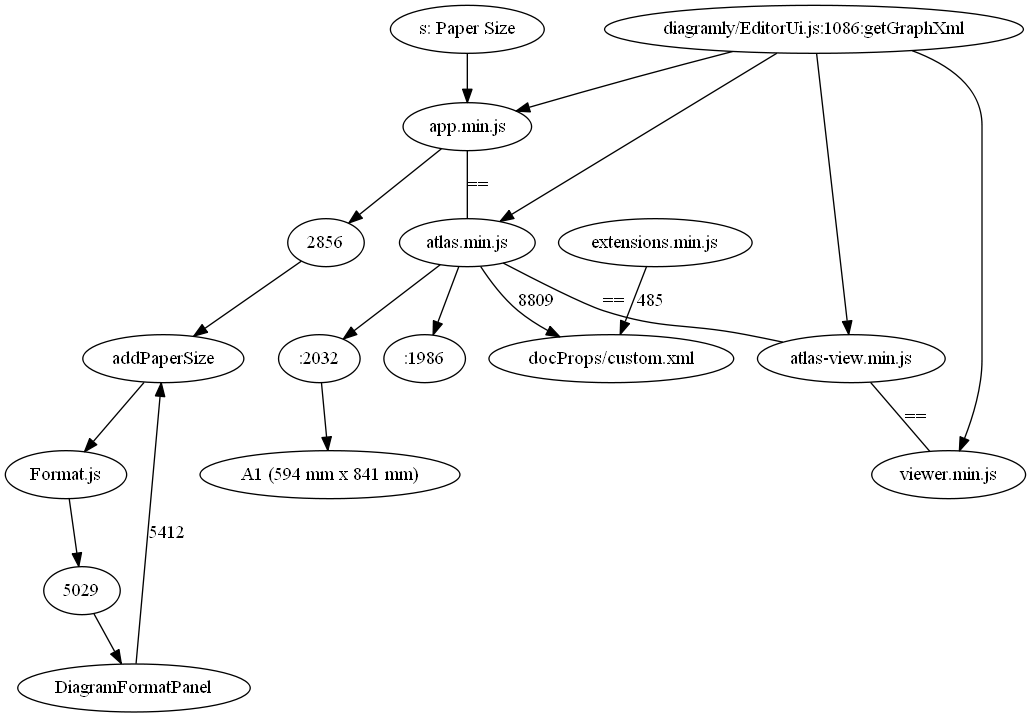
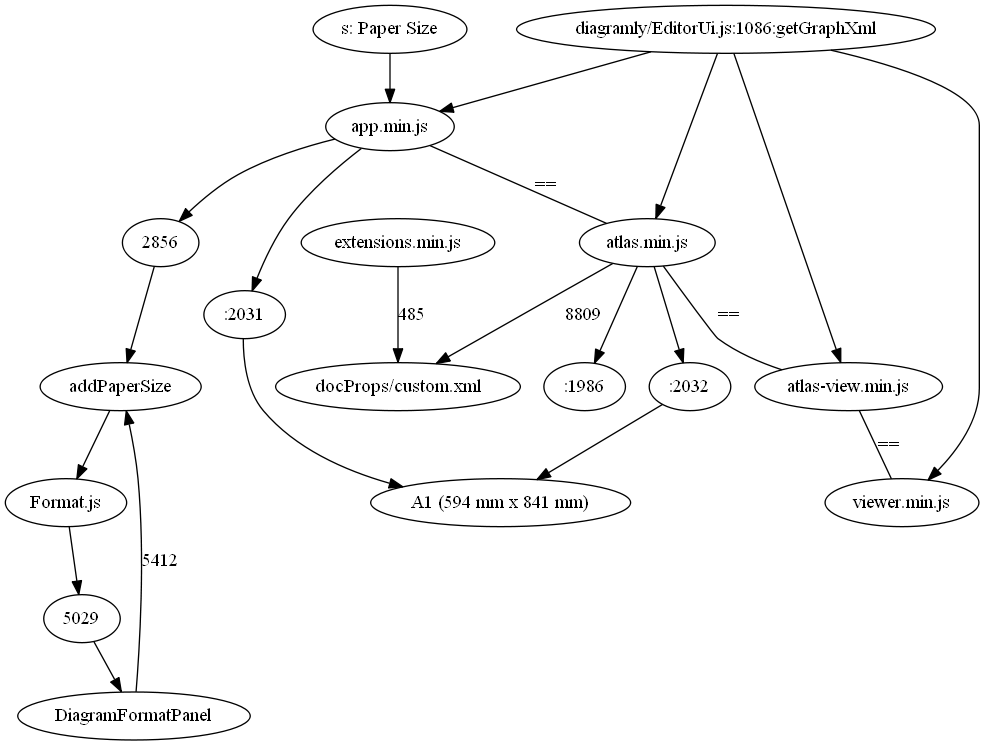
atlas-viewer.min.js 2032

diff --git a/src/main/webapp/js/atlas-viewer.min.js b/src/main/webapp/js/atlas-viewer.min.js
@@ -2029,8 +2029,20 @@ g.setAttribute("size","7");g.style.textAlign="right";f.appendChild(g);mxUtils.wr
 a.appendChild(u);a.appendChild(f);var y=e,t=function(a,d){var c=r[q.value];null!=c.format?(g.value=c.format.width/100,k.value=c.format.height/100,f.style.display="none",u.style.display=""):(u.style.display="none",f.style.display="");isNaN(parseFloat(g.value))&&(g.value=e.width/100);isNaN(parseFloat(k.value))&&(k.value=e.height/100);c=new mxRectangle(0,0,Math.floor(100*parseFloat(g.value)),Math.floor(100*parseFloat(k.value)));"custom"!=q.value&&p.checked&&(c=new mxRectangle(0,0,c.height,c.width));
 d&&A||c.width==y.width&&c.height==y.height||(y=c,null!=b&&b(y))};mxEvent.addListener(c,"click",function(a){m.checked=!0;t(a);mxEvent.consume(a)});mxEvent.addListener(d,"click",function(a){p.checked=!0;t(a);mxEvent.consume(a)});mxEvent.addListener(g,"blur",t);mxEvent.addListener(g,"click",t);mxEvent.addListener(k,"blur",t);mxEvent.addListener(k,"click",t);mxEvent.addListener(p,"change",t);mxEvent.addListener(m,"change",t);mxEvent.addListener(q,"change",function(a){A="custom"==q.value;t(a,!0)});t();
 return{set:function(a){e=a;h(null,null,!0)},get:function(){return y},widthInput:g,heightInput:k}};
-PageSetupDialog.getFormats=function(){return[{key:"letter",title:'US-Letter (8,5" x 11")',format:mxConstants.PAGE_FORMAT_LETTER_PORTRAIT},{key:"legal",title:'US-Legal (8,5" x 14")',format:new mxRectangle(0,0,850,1400)},{key:"tabloid",title:"US-Tabloid (279 mm x 432 mm)",format:new mxRectangle(0,0,1100,1700)},{key:"a0",title:"A0 (841 mm x 1189 mm)",format:new mxRectangle(0,0,3300,4681)},{key:"a1",title:"A1 (594 mm x 841 mm)",format:new mxRectangle(0,0,2339,3300)},{key:"a2",title:"A2 (420 mm x 594 mm)",
-format:new mxRectangle(0,0,1654,2336)},{key:"a3",title:"A3 (297 mm x 420 mm)",format:new mxRectangle(0,0,1169,1654)},{key:"a4",title:"A4 (210 mm x 297 mm)",format:mxConstants.PAGE_FORMAT_A4_PORTRAIT},{key:"a5",title:"A5 (148 mm x 210 mm)",format:new mxRectangle(0,0,583,827)},{key:"a6",title:"A6 (105 mm x 148 mm)",format:new mxRectangle(0,0,413,583)},{key:"a7",title:"A7 (74 mm x 105 mm)",format:new mxRectangle(0,0,291,413)},{key:"custom",title:mxResources.get("custom"),format:null}]};
+PageSetupDialog.getFormats=function(){return[
+{key:"7inch",title:'ESL 7 inch (5" x 7")',format:new mxRectangle(0,0,500,700)},
+{key:"letter",title:'US-Letter (8,5" x 11")',format:mxConstants.PAGE_FORMAT_LETTER_PORTRAIT},
+{key:"legal",title:'US-Legal (8,5" x 14")',format:new mxRectangle(0,0,850,1400)},
+{key:"tabloid",title:"US-Tabloid (279 mm x 432 mm)",format:new mxRectangle(0,0,1100,1700)},
+{key:"a0",title:"A0 (841 mm x 1189 mm)",format:new mxRectangle(0,0,3300,4681)},
+{key:"a1",title:"A1 (594 mm x 841 mm)",format:new mxRectangle(0,0,2339,3300)},
+{key:"a2",title:"A2 (420 mm x 594 mm)", format:new mxRectangle(0,0,1654,2336)},
+{key:"a3",title:"A3 (297 mm x 420 mm)",format:new mxRectangle(0,0,1169,1654)},
+{key:"a4",title:"A4 (210 mm x 297 mm)",format:mxConstants.PAGE_FORMAT_A4_PORTRAIT},
+{key:"a5",title:"A5 (148 mm x 210 mm)",format:new mxRectangle(0,0,583,827)},
+{key:"a6",title:"A6 (105 mm x 148 mm)",format:new mxRectangle(0,0,413,583)},
+{key:"a7",title:"A7 (74 mm x 105 mm)",format:new mxRectangle(0,0,291,413)},
+{key:"custom",title:mxResources.get("custom"),format:null}]};
 (function(){mxGraphView.prototype.validateBackgroundPage=function(){var a=this.graph;if(null!=a.container&&!a.transparentBackground){if(a.pageVisible){var b=this.getBackgroundPageBounds();if(null==this.backgroundPageShape){for(var d=a.container.firstChild;null!=d&&d.nodeType!=mxConstants.NODETYPE_ELEMENT;)d=d.nextSibling;null!=d&&(this.backgroundPageShape=this.createBackgroundPageShape(b),this.backgroundPageShape.scale=1,this.backgroundPageShape.isShadow=!mxClient.IS_QUIRKS,this.backgroundPageShape.dialect=
 mxConstants.DIALECT_STRICTHTML,this.backgroundPageShape.init(a.container),d.style.position="absolute",a.container.insertBefore(this.backgroundPageShape.node,d),this.backgroundPageShape.redraw(),this.backgroundPageShape.node.className="geBackgroundPage",mxEvent.addListener(this.backgroundPageShape.node,"dblclick",mxUtils.bind(this,function(d){a.dblClick(d)})),mxEvent.addGestureListeners(this.backgroundPageShape.node,mxUtils.bind(this,function(d){a.fireMouseEvent(mxEvent.MOUSE_DOWN,new mxMouseEvent(d))}),
 mxUtils.bind(this,function(d){null!=a.tooltipHandler&&a.tooltipHandler.isHideOnHover()&&a.tooltipHandler.hide();a.isMouseDown&&!mxEvent.isConsumed(d)&&a.fireMouseEvent(mxEvent.MOUSE_MOVE,new mxMouseEvent(d))}),mxUtils.bind(this,function(d){a.fireMouseEvent(mxEvent.MOUSE_UP,new mxMouseEvent(d))})))}else this.backgroundPageShape.scale=1,this.backgroundPageShape.bounds=b,this.backgroundPageShape.redraw()}else null!=this.backgroundPageShape&&(this.backgroundPageShape.destroy(),this.backgroundPageShape=
